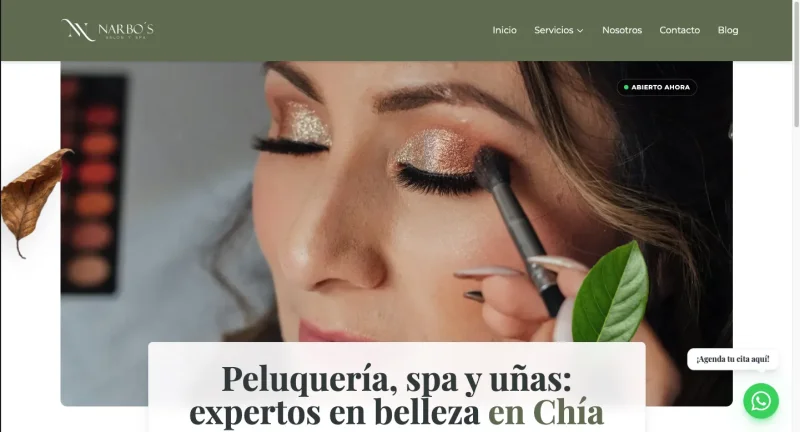
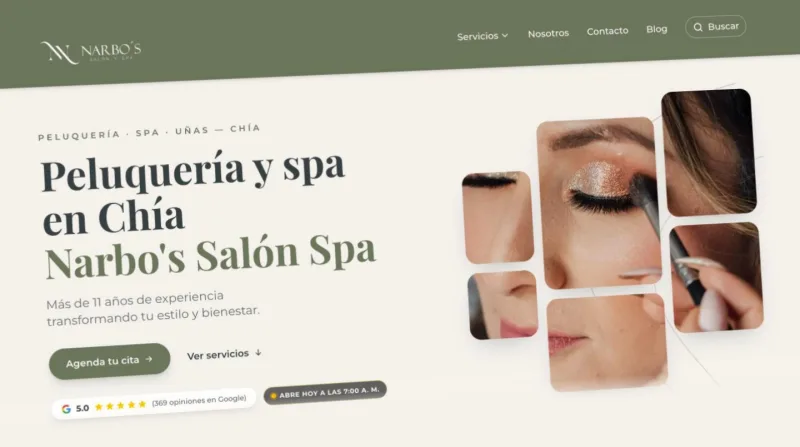
feat(proyectos): capturas actuales de Narbo's y Suave Bocado en sus tarjetas (v1.6.2)
La tarjeta de Narbo's enseñaba una portada que su web ya no tiene, y la de
Suave Bocado era un fotograma del vídeo grabando la pantalla. Ahora las dos
salen de capturas de hoy con la misma inclinación leve. Esa inclinación va
dentro de la imagen, porque era parte del fotograma y no del CSS.

El caso de Narbo's en desarrollo web lleva la captura recta, ya que va dentro
de un marco de navegador, y pasa de 405 a 1280 px: se mostraba a 576 px.

Las rutas llevan ?v=20261104 porque .htaccess guarda las imágenes un año y,
con el mismo nombre, quien ya visitó la web seguiría viendo las antiguas.

diff --git a/bundle-v2.min.js b/bundle-v2.min.js
@@ -1,4 +1,4 @@
-(()=>{var m={CHATBOT:{WEBHOOK_URL:"https://n8n.srv1033442.hstgr.cloud/webhook/34b5ab96-ecf0-4195-93de-e3923c2062e5",SESSION_ID_KEY:"nelson_chat_session_id"},ANALYTICS:{GA_MEASUREMENT_ID:"G-124QEKRXHD",COOKIE_CONSENT_KEY:"nelson_cookie_consent"},CONTACT:{EMAIL:"contacto@nelsonlondono.es",WHATSAPP_PHONE:"34604547203",WHATSAPP_DEFAULT_MESSAGE:"Hola Nelson, vengo de tu web y me gustar\xEDa recibir informaci\xF3n sobre tus servicios.",WHATSAPP_URL:"https://wa.me/34604547203?text=Hola%20Nelson%2C%20vengo%20de%20tu%20web%20y%20me%20gustar%C3%ADa%20recibir%20informaci%C3%B3n%20sobre%20tus%20servicios."},PRICING:{SEO_LOCAL:{MIN_PRICE:230,CURRENCY:"\u20AC",SUFFIX:"/mes",NOTE:"Estrategia de crecimiento continuo."},SEO_LOCAL_EXPRESS:{MIN_PRICE:97,CURRENCY:"\u20AC",SUFFIX:"",NOTE:"Pago \xFAnico. Impuso inicial para tu negocio."},SEO_GENERAL:{MIN_PRICE:275,CURRENCY:"\u20AC",SUFFIX:"/mes"},PACK_VISIBILIDAD:{MIN_PRICE:590,CURRENCY:"\u20AC",SUFFIX:"/mes"},WEB_LANDING:{MIN_PRICE:575,CURRENCY:"\u20AC",SUFFIX:""},WEB_CORPORATIVA:{MIN_PRICE:1150,CURRENCY:"\u20AC",SUFFIX:""},WEB_AVANZADA:{MIN_PRICE:1725,CURRENCY:"\u20AC",SUFFIX:""},WEB_ECOMMERCE:{MIN_PRICE:1935,CURRENCY:"\u20AC",SUFFIX:""}},UI:{THEME_KEY:"theme",APP_VERSION:"2026.11.02.1954"}};function E(){let e=document.getElementById("darkModeToggle");e&&(e.style.display="none"),localStorage.removeItem(m.UI.THEME_KEY),document.documentElement.classList.add("dark"),document.documentElement.classList.remove("light")}function S(){document.body.classList.add("fade-in");function e(o){let a=document.querySelector(o);if(a){let r=document.getElementById("mainHeader")?.offsetHeight||80,n=a.getBoundingClientRect().top+window.pageYOffset-r;window.scrollTo({top:n,behavior:"smooth"})}}function t(o,a){document.body.classList.add("fade-out"),setTimeout(()=>{a?(e(o),setTimeout(()=>{document.body.classList.remove("fade-out")},50)):window.location.href=o},300)}document.querySelectorAll('a:not([href^="tel:"]):not([href^="mailto:"]):not(.social-share-btn):not(.modal-contact-button):not([target="_blank"])').forEach(o=>{o.addEventListener("click",function(a){let r=this.getAttribute("href");if(!r||r==="#")return;let i=r.startsWith("#"),n=i||r.split("#")[0]===window.location.pathname.split("/").pop()||r.split("#")[0]==="";(this.hostname===window.location.hostname||r.startsWith("/"))&&(a.preventDefault(),t(r,i&&n))})})}function A(e,t){if(t.length<2){console.error("Se necesitan al menos dos clases de gradiente para alternar.");return}let o=document.querySelector(e);if(!o)return;o.querySelectorAll("section").forEach((r,i)=>{r.classList.remove(...t);let n=t[i%2];r.classList.add(n)})}var y=typeof IntersectionObserver<"u"?new IntersectionObserver(e=>{e.forEach(t=>{t.isIntersecting&&(t.target.classList.add("is-visible"),y.unobserve(t.target))})},{threshold:.1}):null;function v(e){if(!y||!e)return;(e instanceof NodeList?Array.from(e):[e]).forEach((o,a)=>{o.classList.contains("scroll-animate-initial")&&(o.style.transitionDelay=`${30*a}ms`,y.observe(o))})}function k(){let e=document.querySelectorAll(".scroll-animate-initial");e.length>0&&v(e)}var x=(e,t,o)=>{e&&e.setAttribute(t,o)};function oe(){let e=document.getElementById("mobileMenuButton"),t=document.getElementById("mobileMenu"),o=document.getElementById("closeMobileMenu"),a=document.getElementById("nav-overlay");if(!e||!t||!a)return;t.inert=!0,t.style.visibility="hidden";let r=s=>{let c=()=>{t.classList.toggle("mobile-menu-active",s),t.classList.toggle("translate-x-full",!s),t.classList.toggle("pointer-events-none",!s),a.classList.toggle("opacity-0",!s),a.classList.toggle("pointer-events-none",!s),e.classList.toggle("is-active",s),x(e,"aria-expanded",s),x(t,"aria-hidden",!s),t.inert=!s};s?(a.classList.remove("hidden"),document.body.classList.add("menu-open"),document.documentElement.classList.add("menu-open"),requestAnimationFrame(()=>{t.style.visibility="visible",c()})):(c(),setTimeout(()=>{t.classList.contains("mobile-menu-active")||(t.style.visibility="hidden",a.classList.add("hidden"),document.body.classList.remove("menu-open"),document.documentElement.classList.remove("menu-open"))},500))},i=()=>r(!0),n=()=>r(!1);e.addEventListener("click",s=>{s.stopPropagation(),t.classList.contains("mobile-menu-active")?n():i()}),o&&o.addEventListener("click",n),a.addEventListener("click",n),document.addEventListener("keydown",s=>{s.key==="Escape"&&t.classList.contains("mobile-menu-active")&&n()}),t.addEventListener("click",s=>{s.target.closest("a")&&(s.target.closest("#mobileServicesButton")||n())})}function ae(){let e=document.getElementById("mobileServicesButton"),t=document.getElementById("mobileServicesMenu");!e||!t||e.addEventListener("click",o=>{o.stopPropagation();let a=t.classList.toggle("is-active");x(e,"aria-expanded",a);let r=e.querySelector("i.fa-chevron-down");r&&r.classList.toggle("rotate-180")})}function re(){let e=document.querySelectorAll("section[id]"),t=document.querySelectorAll("header nav a"),o=document.querySelectorAll(".mobile-menu-link");if(e.length===0&&t.length===0)return;let a=window.location.pathname;if(o.forEach(n=>{let s=n.getAttribute("href");s===a||a==="/"&&s==="/index.html"?n.classList.add("mobile-link-active"):n.classList.remove("mobile-link-active")}),e.length===0)return;let r={root:null,rootMargin:"0px 0px -60% 0px",threshold:0},i=new IntersectionObserver(n=>{n.forEach(s=>{if(s.isIntersecting){let c=s.target.id;t.forEach(l=>{l.classList.remove("nav-active"),l.getAttribute("href")===`#${c}`&&l.classList.add("nav-active")}),o.forEach(l=>{l.getAttribute("href")===`#${c}`?l.classList.add("mobile-link-active"):l.getAttribute("href")?.startsWith("#")&&l.classList.remove("mobile-link-active")})}})},r);e.forEach(n=>{i.observe(n)})}function ne(){let e=document.getElementById("services-menu-group"),t=document.getElementById("services-menu-dropdown"),o;!e||!t||(e.addEventListener("mouseenter",()=>{clearTimeout(o),t.classList.remove("hidden")}),e.addEventListener("mouseleave",()=>{o=setTimeout(()=>{t.classList.add("hidden")},300)}))}function ie(){let e=document.querySelector(".sticky-header");if(!e)return;let t=()=>{window.scrollY>20?e.classList.add("header-scrolled"):e.classList.remove("header-scrolled")};window.addEventListener("scroll",t,{passive:!0}),t()}function L(){oe(),ae(),re(),ne(),ie()}var p=[{id:"nar-bos-web",category:"web code",imgSrcSet:{"480w":"image/portfolio-narbos-480.webp","800w":"image/portfolio-narbos-800.webp","1440w":"image/portfolio-narbos.webp"},imgSrc:"image/portfolio-narbos.webp",imgAlt:"Web de Narbo's Sal\xF3n Spa",title:"Narbo's Sal\xF3n Spa - Web de Alto Rendimiento",tags:"C\xF3digo Propio / SEO T\xE9cnico / Performance",description:"Desarrollo a medida con HTML, CSS y JS puro. Optimizada para una carga ultra r\xE1pida y un posicionamiento org\xE1nico que domina el sector de belleza.",type:"link",url:"https://narbossalon.com/"},{id:"legendary-barber-seo",category:"seo local",imgSrcSet:{"480w":"image/portfolio-heatmap-480.webp","800w":"image/portfolio-heatmap-800.webp","1440w":"image/portfolio-heatmap.webp"},imgSrc:"image/portfolio-heatmap.webp",imgAlt:"Mapa de calor SEO Local Legendary Barber",title:"Legendary Barber's Club - Dominio SEO Local",tags:"Google Business Profile / Rankings 1-3 / Local SEO",description:"Escalamos la visibilidad de una barber\xEDa premium de la posici\xF3n 9 al Top 3 de Google Maps en toda su \xE1rea. Citas y llamadas reales multiplicadas.",type:"link",url:"https://share.google/js4KcLIjrU6GwrDIz"},{id:"waboce-app",category:"ia automation",imgSrcSet:{"480w":"image/portfolio-waboce-480.webp","800w":"image/portfolio-waboce-800.webp","1440w":"image/portfolio-waboce.webp"},imgSrc:"image/portfolio-waboce.webp",imgAlt:"Waboce.app - Chatbot de WhatsApp con IA y Marca Blanca",title:"Waboce.app - SaaS de WhatsApp con IA & RAG",tags:"SaaS / WhatsApp IA / RAG / Calendarios",description:"Plataforma SaaS multi-nicho que permite crear y revender chatbots inteligentes de WhatsApp con marca blanca. Conecta bases de datos, calendarios de citas e inventarios en tiempo real mediante t\xE9cnicas RAG.",type:"link",url:"https://waboce.app/"},{id:"blond-bros-barber",category:"seo local",imgSrcSet:{"480w":"image/blond-bros-barber-heatmap-480.webp","800w":"image/blond-bros-barber-heatmap-800.webp","1440w":"image/blond-bros-barber-heatmap.webp"},imgSrc:"image/blond-bros-barber-heatmap.webp",imgAlt:"Dominio SEO Local Blond Bros Barber",title:"Blond Bros Barber - \xC9xito Local 2026",tags:"Google Maps / Estrategia Local / Fuente el Saz",description:"Transformamos un perfil abandonado en el l\xEDder de su pueblo. Gesti\xF3n integral de rese\xF1as, fotos de remodelaci\xF3n y optimizaci\xF3n GMB.",type:"link",url:"https://g.co/kgs/UfU8p6E"},{id:"suavebocado",category:"web",url:"https://suavebocado.com/",imgSrcSet:{"480w":"image/foto-suave-bocado-480.webp","800w":"image/foto-suave-bocado-800.webp","1423w":"image/foto-suave-bocado.webp"},imgSrc:"image/foto-suave-bocado.webp",imgAlt:"Web a medida de Suave Bocado Reposter\xEDa: portada con una torta de chocolate",title:"Suave Bocado Reposter\xEDa",tags:"Web a medida \xB7 Next.js \xB7 Pedidos por WhatsApp",description:"Reposter\xEDa en Envigado (Colombia). Cambi\xE9 su web de plantilla por una a medida: el formulario deja el pedido escrito en WhatsApp y la galer\xEDa cotiza con foto. PageSpeed 95 en m\xF3vil y 100 en ordenador; el primer pedido lleg\xF3 a los dos d\xEDas.",type:"link"}];function se(e){return e?Object.entries(e).map(([t,o])=>`${o} ${t}`).join(", "):""}function ce(e,t,o,a){return`
+(()=>{var m={CHATBOT:{WEBHOOK_URL:"https://n8n.srv1033442.hstgr.cloud/webhook/34b5ab96-ecf0-4195-93de-e3923c2062e5",SESSION_ID_KEY:"nelson_chat_session_id"},ANALYTICS:{GA_MEASUREMENT_ID:"G-124QEKRXHD",COOKIE_CONSENT_KEY:"nelson_cookie_consent"},CONTACT:{EMAIL:"contacto@nelsonlondono.es",WHATSAPP_PHONE:"34604547203",WHATSAPP_DEFAULT_MESSAGE:"Hola Nelson, vengo de tu web y me gustar\xEDa recibir informaci\xF3n sobre tus servicios.",WHATSAPP_URL:"https://wa.me/34604547203?text=Hola%20Nelson%2C%20vengo%20de%20tu%20web%20y%20me%20gustar%C3%ADa%20recibir%20informaci%C3%B3n%20sobre%20tus%20servicios."},PRICING:{SEO_LOCAL:{MIN_PRICE:230,CURRENCY:"\u20AC",SUFFIX:"/mes",NOTE:"Estrategia de crecimiento continuo."},SEO_LOCAL_EXPRESS:{MIN_PRICE:97,CURRENCY:"\u20AC",SUFFIX:"",NOTE:"Pago \xFAnico. Impuso inicial para tu negocio."},SEO_GENERAL:{MIN_PRICE:275,CURRENCY:"\u20AC",SUFFIX:"/mes"},PACK_VISIBILIDAD:{MIN_PRICE:590,CURRENCY:"\u20AC",SUFFIX:"/mes"},WEB_LANDING:{MIN_PRICE:575,CURRENCY:"\u20AC",SUFFIX:""},WEB_CORPORATIVA:{MIN_PRICE:1150,CURRENCY:"\u20AC",SUFFIX:""},WEB_AVANZADA:{MIN_PRICE:1725,CURRENCY:"\u20AC",SUFFIX:""},WEB_ECOMMERCE:{MIN_PRICE:1935,CURRENCY:"\u20AC",SUFFIX:""}},UI:{THEME_KEY:"theme",APP_VERSION:"2026.11.04.0927"}};function E(){let e=document.getElementById("darkModeToggle");e&&(e.style.display="none"),localStorage.removeItem(m.UI.THEME_KEY),document.documentElement.classList.add("dark"),document.documentElement.classList.remove("light")}function S(){document.body.classList.add("fade-in");function e(o){let a=document.querySelector(o);if(a){let r=document.getElementById("mainHeader")?.offsetHeight||80,n=a.getBoundingClientRect().top+window.pageYOffset-r;window.scrollTo({top:n,behavior:"smooth"})}}function t(o,a){document.body.classList.add("fade-out"),setTimeout(()=>{a?(e(o),setTimeout(()=>{document.body.classList.remove("fade-out")},50)):window.location.href=o},300)}document.querySelectorAll('a:not([href^="tel:"]):not([href^="mailto:"]):not(.social-share-btn):not(.modal-contact-button):not([target="_blank"])').forEach(o=>{o.addEventListener("click",function(a){let r=this.getAttribute("href");if(!r||r==="#")return;let i=r.startsWith("#"),n=i||r.split("#")[0]===window.location.pathname.split("/").pop()||r.split("#")[0]==="";(this.hostname===window.location.hostname||r.startsWith("/"))&&(a.preventDefault(),t(r,i&&n))})})}function A(e,t){if(t.length<2){console.error("Se necesitan al menos dos clases de gradiente para alternar.");return}let o=document.querySelector(e);if(!o)return;o.querySelectorAll("section").forEach((r,i)=>{r.classList.remove(...t);let n=t[i%2];r.classList.add(n)})}var y=typeof IntersectionObserver<"u"?new IntersectionObserver(e=>{e.forEach(t=>{t.isIntersecting&&(t.target.classList.add("is-visible"),y.unobserve(t.target))})},{threshold:.1}):null;function v(e){if(!y||!e)return;(e instanceof NodeList?Array.from(e):[e]).forEach((o,a)=>{o.classList.contains("scroll-animate-initial")&&(o.style.transitionDelay=`${30*a}ms`,y.observe(o))})}function k(){let e=document.querySelectorAll(".scroll-animate-initial");e.length>0&&v(e)}var x=(e,t,o)=>{e&&e.setAttribute(t,o)};function oe(){let e=document.getElementById("mobileMenuButton"),t=document.getElementById("mobileMenu"),o=document.getElementById("closeMobileMenu"),a=document.getElementById("nav-overlay");if(!e||!t||!a)return;t.inert=!0,t.style.visibility="hidden";let r=s=>{let c=()=>{t.classList.toggle("mobile-menu-active",s),t.classList.toggle("translate-x-full",!s),t.classList.toggle("pointer-events-none",!s),a.classList.toggle("opacity-0",!s),a.classList.toggle("pointer-events-none",!s),e.classList.toggle("is-active",s),x(e,"aria-expanded",s),x(t,"aria-hidden",!s),t.inert=!s};s?(a.classList.remove("hidden"),document.body.classList.add("menu-open"),document.documentElement.classList.add("menu-open"),requestAnimationFrame(()=>{t.style.visibility="visible",c()})):(c(),setTimeout(()=>{t.classList.contains("mobile-menu-active")||(t.style.visibility="hidden",a.classList.add("hidden"),document.body.classList.remove("menu-open"),document.documentElement.classList.remove("menu-open"))},500))},i=()=>r(!0),n=()=>r(!1);e.addEventListener("click",s=>{s.stopPropagation(),t.classList.contains("mobile-menu-active")?n():i()}),o&&o.addEventListener("click",n),a.addEventListener("click",n),document.addEventListener("keydown",s=>{s.key==="Escape"&&t.classList.contains("mobile-menu-active")&&n()}),t.addEventListener("click",s=>{s.target.closest("a")&&(s.target.closest("#mobileServicesButton")||n())})}function ae(){let e=document.getElementById("mobileServicesButton"),t=document.getElementById("mobileServicesMenu");!e||!t||e.addEventListener("click",o=>{o.stopPropagation();let a=t.classList.toggle("is-active");x(e,"aria-expanded",a);let r=e.querySelector("i.fa-chevron-down");r&&r.classList.toggle("rotate-180")})}function re(){let e=document.querySelectorAll("section[id]"),t=document.querySelectorAll("header nav a"),o=document.querySelectorAll(".mobile-menu-link");if(e.length===0&&t.length===0)return;let a=window.location.pathname;if(o.forEach(n=>{let s=n.getAttribute("href");s===a||a==="/"&&s==="/index.html"?n.classList.add("mobile-link-active"):n.classList.remove("mobile-link-active")}),e.length===0)return;let r={root:null,rootMargin:"0px 0px -60% 0px",threshold:0},i=new IntersectionObserver(n=>{n.forEach(s=>{if(s.isIntersecting){let c=s.target.id;t.forEach(l=>{l.classList.remove("nav-active"),l.getAttribute("href")===`#${c}`&&l.classList.add("nav-active")}),o.forEach(l=>{l.getAttribute("href")===`#${c}`?l.classList.add("mobile-link-active"):l.getAttribute("href")?.startsWith("#")&&l.classList.remove("mobile-link-active")})}})},r);e.forEach(n=>{i.observe(n)})}function ne(){let e=document.getElementById("services-menu-group"),t=document.getElementById("services-menu-dropdown"),o;!e||!t||(e.addEventListener("mouseenter",()=>{clearTimeout(o),t.classList.remove("hidden")}),e.addEventListener("mouseleave",()=>{o=setTimeout(()=>{t.classList.add("hidden")},300)}))}function ie(){let e=document.querySelector(".sticky-header");if(!e)return;let t=()=>{window.scrollY>20?e.classList.add("header-scrolled"):e.classList.remove("header-scrolled")};window.addEventListener("scroll",t,{passive:!0}),t()}function L(){oe(),ae(),re(),ne(),ie()}var p=[{id:"nar-bos-web",category:"web code",imgSrcSet:{"480w":"image/portfolio-narbos-480.webp?v=20261104","800w":"image/portfolio-narbos-800.webp?v=20261104","1440w":"image/portfolio-narbos.webp?v=20261104"},imgSrc:"image/portfolio-narbos.webp?v=20261104",imgAlt:"Web de Narbo's Sal\xF3n Spa",title:"Narbo's Sal\xF3n Spa - Web de Alto Rendimiento",tags:"C\xF3digo Propio / SEO T\xE9cnico / Performance",description:"Desarrollo a medida con HTML, CSS y JS puro. Optimizada para una carga ultra r\xE1pida y un posicionamiento org\xE1nico que domina el sector de belleza.",type:"link",url:"https://narbossalon.com/"},{id:"legendary-barber-seo",category:"seo local",imgSrcSet:{"480w":"image/portfolio-heatmap-480.webp","800w":"image/portfolio-heatmap-800.webp","1440w":"image/portfolio-heatmap.webp"},imgSrc:"image/portfolio-heatmap.webp",imgAlt:"Mapa de calor SEO Local Legendary Barber",title:"Legendary Barber's Club - Dominio SEO Local",tags:"Google Business Profile / Rankings 1-3 / Local SEO",description:"Escalamos la visibilidad de una barber\xEDa premium de la posici\xF3n 9 al Top 3 de Google Maps en toda su \xE1rea. Citas y llamadas reales multiplicadas.",type:"link",url:"https://share.google/js4KcLIjrU6GwrDIz"},{id:"waboce-app",category:"ia automation",imgSrcSet:{"480w":"image/portfolio-waboce-480.webp","800w":"image/portfolio-waboce-800.webp","1440w":"image/portfolio-waboce.webp"},imgSrc:"image/portfolio-waboce.webp",imgAlt:"Waboce.app - Chatbot de WhatsApp con IA y Marca Blanca",title:"Waboce.app - SaaS de WhatsApp con IA & RAG",tags:"SaaS / WhatsApp IA / RAG / Calendarios",description:"Plataforma SaaS multi-nicho que permite crear y revender chatbots inteligentes de WhatsApp con marca blanca. Conecta bases de datos, calendarios de citas e inventarios en tiempo real mediante t\xE9cnicas RAG.",type:"link",url:"https://waboce.app/"},{id:"blond-bros-barber",category:"seo local",imgSrcSet:{"480w":"image/blond-bros-barber-heatmap-480.webp","800w":"image/blond-bros-barber-heatmap-800.webp","1440w":"image/blond-bros-barber-heatmap.webp"},imgSrc:"image/blond-bros-barber-heatmap.webp",imgAlt:"Dominio SEO Local Blond Bros Barber",title:"Blond Bros Barber - \xC9xito Local 2026",tags:"Google Maps / Estrategia Local / Fuente el Saz",description:"Transformamos un perfil abandonado en el l\xEDder de su pueblo. Gesti\xF3n integral de rese\xF1as, fotos de remodelaci\xF3n y optimizaci\xF3n GMB.",type:"link",url:"https://g.co/kgs/UfU8p6E"},{id:"suavebocado",category:"web",url:"https://suavebocado.com/",imgSrcSet:{"480w":"image/foto-suave-bocado-480.webp?v=20261104","800w":"image/foto-suave-bocado-800.webp?v=20261104","1423w":"image/foto-suave-bocado.webp?v=20261104"},imgSrc:"image/foto-suave-bocado.webp?v=20261104",imgAlt:"Web a medida de Suave Bocado Reposter\xEDa: portada con una torta de chocolate",title:"Suave Bocado Reposter\xEDa",tags:"Web a medida \xB7 Next.js \xB7 Pedidos por WhatsApp",description:"Reposter\xEDa en Envigado (Colombia). Cambi\xE9 su web de plantilla por una a medida: el formulario deja el pedido escrito en WhatsApp y la galer\xEDa cotiza con foto. PageSpeed 95 en m\xF3vil y 100 en ordenador; el primer pedido lleg\xF3 a los dos d\xEDas.",type:"link"}];function se(e){return e?Object.entries(e).map(([t,o])=>`${o} ${t}`).join(", "):""}function ce(e,t,o,a){return`
     <div class="relative">
       <img
         class="w-full h-56 object-cover group-hover:scale-105 transition-transform duration-500 ease-in-out"

diff --git a/proyectos.html b/proyectos.html
@@ -130,16 +130,16 @@
     <!-- Carga local optimizada de Font Awesome -->
     <link
       rel="preload"
-      href="/fontawesome.min.css?v=2026.11.02.1954"
+      href="/fontawesome.min.css?v=2026.11.04.0927"
       as="style"
       onload="this.onload=null;this.rel='stylesheet'"
     />
     <noscript>
-      <link rel="stylesheet" href="/fontawesome.min.css?v=2026.11.02.1954" />
+      <link rel="stylesheet" href="/fontawesome.min.css?v=2026.11.04.0927" />
     </noscript>
 
     <!-- Carga del CSS principal SÍNCRONA para evitar FOUC -->
-    <link rel="stylesheet" href="/nelson-v4.css?v=2026.11.02.1954" />
+    <link rel="stylesheet" href="/nelson-v4.css?v=2026.11.04.0927" />
   </head>
   <body class=" ">
     <!-- nav:start (generado desde components/nav.html por inyectar-componentes.js; no editar aquí) -->
@@ -462,9 +462,9 @@
                 <div class="relative">
                   <img
                     class="w-full h-56 object-cover group-hover:scale-105 transition-transform duration-500 ease-in-out"
-                    srcset="image/portfolio-narbos-480.webp 480w, image/portfolio-narbos-800.webp 800w, image/portfolio-narbos.webp 1440w"
+                    srcset="image/portfolio-narbos-480.webp?v=20261104 480w, image/portfolio-narbos-800.webp?v=20261104 800w, image/portfolio-narbos.webp?v=20261104 1440w"
                     sizes="(max-width: 767px) 100vw, (max-width: 1023px) 50vw, 400px"
-                    src="image/portfolio-narbos.webp"
+                    src="image/portfolio-narbos.webp?v=20261104"
                     alt="Web de Narbo's Salón Spa"
                     width="400"
                     height="224"
@@ -554,9 +554,9 @@
                 <div class="relative">
                   <img
                     class="w-full h-56 object-cover group-hover:scale-105 transition-transform duration-500 ease-in-out"
-                    srcset="image/foto-suave-bocado-480.webp 480w, image/foto-suave-bocado-800.webp 800w, image/foto-suave-bocado.webp 1423w"
+                    srcset="image/foto-suave-bocado-480.webp?v=20261104 480w, image/foto-suave-bocado-800.webp?v=20261104 800w, image/foto-suave-bocado.webp?v=20261104 1423w"
                     sizes="(max-width: 767px) 100vw, (max-width: 1023px) 50vw, 400px"
-                    src="image/foto-suave-bocado.webp"
+                    src="image/foto-suave-bocado.webp?v=20261104"
                     alt="Web a medida de Suave Bocado Repostería: portada con una torta de chocolate"
                     width="400"
                     height="224"
@@ -710,7 +710,7 @@
          divergido del componente. -->
     <div id="cookie-banner-placeholder"></div>
 
-    <script src="/bundle-v2.min.js?v=2026.11.02.1954" defer></script>
+    <script src="/bundle-v2.min.js?v=2026.11.04.0927" defer></script>
     <div data-component="chatbot"></div>
   </body>
 </html>

diff --git a/src/js/data/portfolio.js b/src/js/data/portfolio.js
@@ -3,11 +3,11 @@ export const portfolioData = [
     id: 'nar-bos-web',
     category: 'web code',
     imgSrcSet: {
-      '480w': 'image/portfolio-narbos-480.webp',
-      '800w': 'image/portfolio-narbos-800.webp',
-      '1440w': 'image/portfolio-narbos.webp',
+      '480w': 'image/portfolio-narbos-480.webp?v=20261104',
+      '800w': 'image/portfolio-narbos-800.webp?v=20261104',
+      '1440w': 'image/portfolio-narbos.webp?v=20261104',
     },
-    imgSrc: 'image/portfolio-narbos.webp',
+    imgSrc: 'image/portfolio-narbos.webp?v=20261104',
     imgAlt: "Web de Narbo's Salón Spa",
     title: "Narbo's Salón Spa - Web de Alto Rendimiento",
     tags: 'Código Propio / SEO Técnico / Performance',
@@ -72,11 +72,11 @@ export const portfolioData = [
     category: 'web',
     url: 'https://suavebocado.com/',
     imgSrcSet: {
-      '480w': 'image/foto-suave-bocado-480.webp',
-      '800w': 'image/foto-suave-bocado-800.webp',
-      '1423w': 'image/foto-suave-bocado.webp',
+      '480w': 'image/foto-suave-bocado-480.webp?v=20261104',
+      '800w': 'image/foto-suave-bocado-800.webp?v=20261104',
+      '1423w': 'image/foto-suave-bocado.webp?v=20261104',
     },
-    imgSrc: 'image/foto-suave-bocado.webp',
+    imgSrc: 'image/foto-suave-bocado.webp?v=20261104',
     imgAlt: 'Web a medida de Suave Bocado Repostería: portada con una torta de chocolate',
     title: 'Suave Bocado Repostería',
     tags: 'Web a medida · Next.js · Pedidos por WhatsApp',

diff --git a/agencia-desarrollo-web-con-codigo.html b/agencia-desarrollo-web-con-codigo.html
@@ -128,16 +128,16 @@
     <!-- Carga local optimizada de Font Awesome -->
     <link
       rel="preload"
-      href="/fontawesome.min.css?v=2026.11.02.1954"
+      href="/fontawesome.min.css?v=2026.11.04.0927"
       as="style"
       onload="this.onload=null;this.rel='stylesheet'"
     />
     <noscript>
-      <link rel="stylesheet" href="/fontawesome.min.css?v=2026.11.02.1954" />
+      <link rel="stylesheet" href="/fontawesome.min.css?v=2026.11.04.0927" />
     </noscript>
 
     <!-- Carga del CSS principal SÍNCRONA para evitar FOUC -->
-    <link rel="stylesheet" href="/nelson-v4.css?v=2026.11.02.1954" />
+    <link rel="stylesheet" href="/nelson-v4.css?v=2026.11.04.0927" />
   </head>
   <body class=" ">
     <div id="nav-placeholder"></div>
@@ -1031,7 +1031,7 @@
                   <div class="w-3 h-3 rounded-full bg-green-600"></div>
                 </div>
                 <img
-                  src="./image/screen-narbos.webp"
+                  src="./image/screen-narbos.webp?v=20261104"
                   alt="Captura de pantalla de la página web de Narbo's Salón Spa"
                   class="w-full h-auto object-cover"
                   loading="lazy"
@@ -1292,6 +1292,6 @@
     <div id="cookie-banner-placeholder"></div>
 
     <div data-component="chatbot"></div>
-    <script src="/bundle-v2.min.js?v=2026.11.02.1954" defer></script>
+    <script src="/bundle-v2.min.js?v=2026.11.04.0927" defer></script>
   </body>
 </html>

diff --git a/index.html b/index.html
@@ -21,14 +21,14 @@
     </script>
     
     <!-- Carga local optimizada de Font Awesome (asíncrona para evitar bloqueo de renderizado) -->
-    <link rel="stylesheet" href="/fontawesome.min.css?v=2026.11.02.1954" media="print" onload="this.media='all'" />
-    <noscript><link rel="stylesheet" href="/fontawesome.min.css?v=2026.11.02.1954" /></noscript>
+    <link rel="stylesheet" href="/fontawesome.min.css?v=2026.11.04.0927" media="print" onload="this.media='all'" />
+    <noscript><link rel="stylesheet" href="/fontawesome.min.css?v=2026.11.04.0927" /></noscript>
 
     <!-- Preload del Hero LCP para carga instantánea -->
     <link rel="preload" as="image" href="./image/foto-nelson-londono.webp" fetchpriority="high" />
 
     <!-- Carga del CSS principal SÍNCRONA para evitar FOUC -->
-    <link rel="stylesheet" href="/nelson-v4.css?v=2026.11.02.1954" />
+    <link rel="stylesheet" href="/nelson-v4.css?v=2026.11.04.0927" />
 
     <script type="application/ld+json">
     {
@@ -945,7 +945,7 @@
 
     <!-- SCRIPTS PARA PRODUCCIÓN -->
     <!-- Descomenta este bloque y comenta el de desarrollo antes de pasar a producción -->
-    <script src="/bundle-v2.min.js?v=2026.11.02.1954" defer></script>
+    <script src="/bundle-v2.min.js?v=2026.11.04.0927" defer></script>
 
     <!-- SCRIPTS PARA DESARROLLO -->
     <!-- Comenta este bloque y descomenta el de producción antes de pasar a producción -->

diff --git a/contacto.html b/contacto.html
@@ -86,17 +86,17 @@
     <link rel="canonical" href="https://nelsonlondono.es/contacto.html" />
     <link rel="icon" type="image/webp" href="./image/favicon.webp" />
     <!-- Carga del CSS principal SÍNCRONA para evitar FOUC -->
-    <link rel="stylesheet" href="/nelson-v4.css?v=2026.11.02.1954" />
+    <link rel="stylesheet" href="/nelson-v4.css?v=2026.11.04.0927" />
 
     <!-- Carga de FontAwesome optimizada -->
     <link
       rel="preload"
-      href="/fontawesome.min.css?v=2026.11.02.1954"
+      href="/fontawesome.min.css?v=2026.11.04.0927"
       as="style"
       onload="this.onload=null;this.rel='stylesheet'"
     />
     <noscript>
-      <link rel="stylesheet" href="/fontawesome.min.css?v=2026.11.02.1954" />
+      <link rel="stylesheet" href="/fontawesome.min.css?v=2026.11.04.0927" />
     </noscript>
     <!-- Preload de imagen crítica (Logo) -->
     <link rel="preload" as="image" href="/image/logo-nelson.webp" fetchpriority="high" />
@@ -233,6 +233,6 @@
     <div id="footer-placeholder"></div>
     <div id="cookie-banner-placeholder"></div>
     <div data-component="chatbot"></div>
-    <script src="/bundle-v2.min.js?v=2026.11.02.1954" defer></script>
+    <script src="/bundle-v2.min.js?v=2026.11.04.0927" defer></script>
   </body>
 </html>

diff --git a/sobre-mi.html b/sobre-mi.html
@@ -81,17 +81,17 @@
     <link rel="icon" type="image/webp" href="./image/favicon.webp" />
 
     <!-- Carga del CSS principal SÍNCRONA para evitar FOUC -->
-    <link rel="stylesheet" href="/nelson-v4.css?v=2026.11.02.1954" />
+    <link rel="stylesheet" href="/nelson-v4.css?v=2026.11.04.0927" />
 
     <!-- Carga de FontAwesome optimizada -->
     <link
       rel="preload"
-      href="/fontawesome.min.css?v=2026.11.02.1954"
+      href="/fontawesome.min.css?v=2026.11.04.0927"
       as="style"
       onload="this.onload=null;this.rel='stylesheet'"
     />
     <noscript>
-      <link rel="stylesheet" href="/fontawesome.min.css?v=2026.11.02.1954" />
+      <link rel="stylesheet" href="/fontawesome.min.css?v=2026.11.04.0927" />
     </noscript>
 
     <!-- Preload de imagen crítica LCP (Marca Personal) -->
@@ -608,6 +608,6 @@
     <div id="footer-placeholder"></div>
     <div id="cookie-banner-placeholder"></div>
     <div data-component="chatbot"></div>
-    <script src="/bundle-v2.min.js?v=2026.11.02.1954" defer></script>
+    <script src="/bundle-v2.min.js?v=2026.11.04.0927" defer></script>
   </body>
 </html>

diff --git a/agencia-seo-local.html b/agencia-seo-local.html
@@ -113,15 +113,15 @@
     <!-- Carga local optimizada de Font Awesome -->
     <link 
       rel="preload" 
-      href="/fontawesome.min.css?v=2026.11.02.1954" 
+      href="/fontawesome.min.css?v=2026.11.04.0927" 
       as="style" 
       onload="this.onload=null;this.rel='stylesheet'"
     />
     <noscript>
-      <link rel="stylesheet" href="/fontawesome.min.css?v=2026.11.02.1954" />
+      <link rel="stylesheet" href="/fontawesome.min.css?v=2026.11.04.0927" />
     </noscript>
     <!-- Carga del CSS principal SÍNCRONA para evitar FOUC -->
-    <link rel="stylesheet" href="/nelson-v4.css?v=2026.11.02.1954" />
+    <link rel="stylesheet" href="/nelson-v4.css?v=2026.11.04.0927" />
 
     <!-- Preload de imagen crítica para LCP -->
     <link rel="preload" as="image" href="./image/what-is-seo-local.webp" fetchpriority="high" />
@@ -887,6 +887,6 @@
     <div id="cookie-banner-placeholder"></div>
 
     <div data-component="chatbot"></div>
-    <script src="/bundle-v2.min.js?v=2026.11.02.1954" defer></script>
+    <script src="/bundle-v2.min.js?v=2026.11.04.0927" defer></script>
   </body>
 </html>

diff --git a/guia/index.html b/guia/index.html
@@ -24,16 +24,16 @@
     <!-- Carga local optimizada de Font Awesome -->
     <link
       rel="preload"
-      href="/fontawesome.min.css?v=2026.11.02.1954"
+      href="/fontawesome.min.css?v=2026.11.04.0927"
       as="style"
       onload="this.onload=null;this.rel='stylesheet'"
     />
     <noscript>
-      <link rel="stylesheet" href="/fontawesome.min.css?v=2026.11.02.1954" />
+      <link rel="stylesheet" href="/fontawesome.min.css?v=2026.11.04.0927" />
     </noscript>
 
     <!-- Tailwind CSS (Compilado del proyecto) -->
-    <link href="/nelson-v4.css?v=2026.11.02.1954" rel="stylesheet" />
+    <link href="/nelson-v4.css?v=2026.11.04.0927" rel="stylesheet" />
 
     <!-- Fuentes (Específicas para esta Landing) -->
     <link
@@ -277,7 +277,7 @@
     <div id="footer-placeholder"></div>
 
     <!-- Scripts del proyecto -->
-    <script src="/bundle-v2.min.js?v=2026.11.02.1954"></script>
+    <script src="/bundle-v2.min.js?v=2026.11.04.0927"></script>
     <script>
       // Inicializar iconos de Lucide
       lucide.createIcons();

diff --git a/agencia-desarrollo-software.html b/agencia-desarrollo-software.html
@@ -20,16 +20,16 @@
     <!-- Carga local optimizada de Font Awesome -->
     <link 
       rel="preload" 
-      href="/fontawesome.min.css?v=2026.11.02.1954" 
+      href="/fontawesome.min.css?v=2026.11.04.0927" 
       as="style" 
       onload="this.onload=null;this.rel='stylesheet'"
     />
     <noscript>
-      <link rel="stylesheet" href="/fontawesome.min.css?v=2026.11.02.1954" />
+      <link rel="stylesheet" href="/fontawesome.min.css?v=2026.11.04.0927" />
     </noscript>
 
     <!-- Carga del CSS principal SÍNCRONA para evitar FOUC -->
-    <link rel="stylesheet" href="/nelson-v4.css?v=2026.11.02.1954" />
+    <link rel="stylesheet" href="/nelson-v4.css?v=2026.11.04.0927" />
 
     <!-- Schema.org Structured Data -->
     <script type="application/ld+json">
@@ -460,6 +460,6 @@
     <div id="cookie-banner-placeholder"></div>
 
     <div data-component="chatbot"></div>
-    <script src="/bundle-v2.min.js?v=2026.11.02.1954" defer></script>
+    <script src="/bundle-v2.min.js?v=2026.11.04.0927" defer></script>
   </body>
 </html>

diff --git a/articulo-ia-agentica-2026.html b/articulo-ia-agentica-2026.html
@@ -18,17 +18,17 @@
     <!-- Carga local optimizada de Font Awesome -->
     <link
       rel="preload"
-      href="/fontawesome.min.css?v=2026.11.02.1954"
+      href="/fontawesome.min.css?v=2026.11.04.0927"
       as="style"
       onload="this.onload=null;this.rel='stylesheet'"
     />
     <noscript>
-      <link rel="stylesheet" href="/fontawesome.min.css?v=2026.11.02.1954" />
+      <link rel="stylesheet" href="/fontawesome.min.css?v=2026.11.04.0927" />
     </noscript>
 
     <!-- Estilos de Producción -->
     <!-- Carga del CSS principal SÍNCRONA para evitar FOUC -->
-    <link rel="stylesheet" href="/nelson-v4.css?v=2026.11.02.1954" />
+    <link rel="stylesheet" href="/nelson-v4.css?v=2026.11.04.0927" />
 
     <!-- Preload de imagen crítica LCP -->
     <link
@@ -333,6 +333,6 @@
     <div id="cookie-banner-placeholder"></div>
 
     <!-- Scripts Modularizados -->
-    <script src="/bundle-v2.min.js?v=2026.11.02.1954" defer></script>
+    <script src="/bundle-v2.min.js?v=2026.11.04.0927" defer></script>
   </body>
 </html>

diff --git a/blog.html b/blog.html
@@ -13,15 +13,15 @@
     <!-- Carga local optimizada de Font Awesome -->
     <link
       rel="preload"
-      href="/fontawesome.min.css?v=2026.11.02.1954"
+      href="/fontawesome.min.css?v=2026.11.04.0927"
       as="style"
       onload="this.onload=null;this.rel='stylesheet'"
     />
     <noscript>
-      <link rel="stylesheet" href="/fontawesome.min.css?v=2026.11.02.1954" />
+      <link rel="stylesheet" href="/fontawesome.min.css?v=2026.11.04.0927" />
     </noscript>
     <!-- Carga del CSS principal SÍNCRONA para evitar FOUC -->
-    <link rel="stylesheet" href="/nelson-v4.css?v=2026.11.02.1954" />
+    <link rel="stylesheet" href="/nelson-v4.css?v=2026.11.04.0927" />
 
     <!-- Preload de la primera imagen del Blog (Candidata LCP en móvil) -->
     <link
@@ -349,6 +349,6 @@
     <div id="footer-placeholder"></div>
 
     <div id="cookie-banner-placeholder"></div>
-    <script src="/bundle-v2.min.js?v=2026.11.02.1954" defer></script>
+    <script src="/bundle-v2.min.js?v=2026.11.04.0927" defer></script>
   </body>
 </html>
